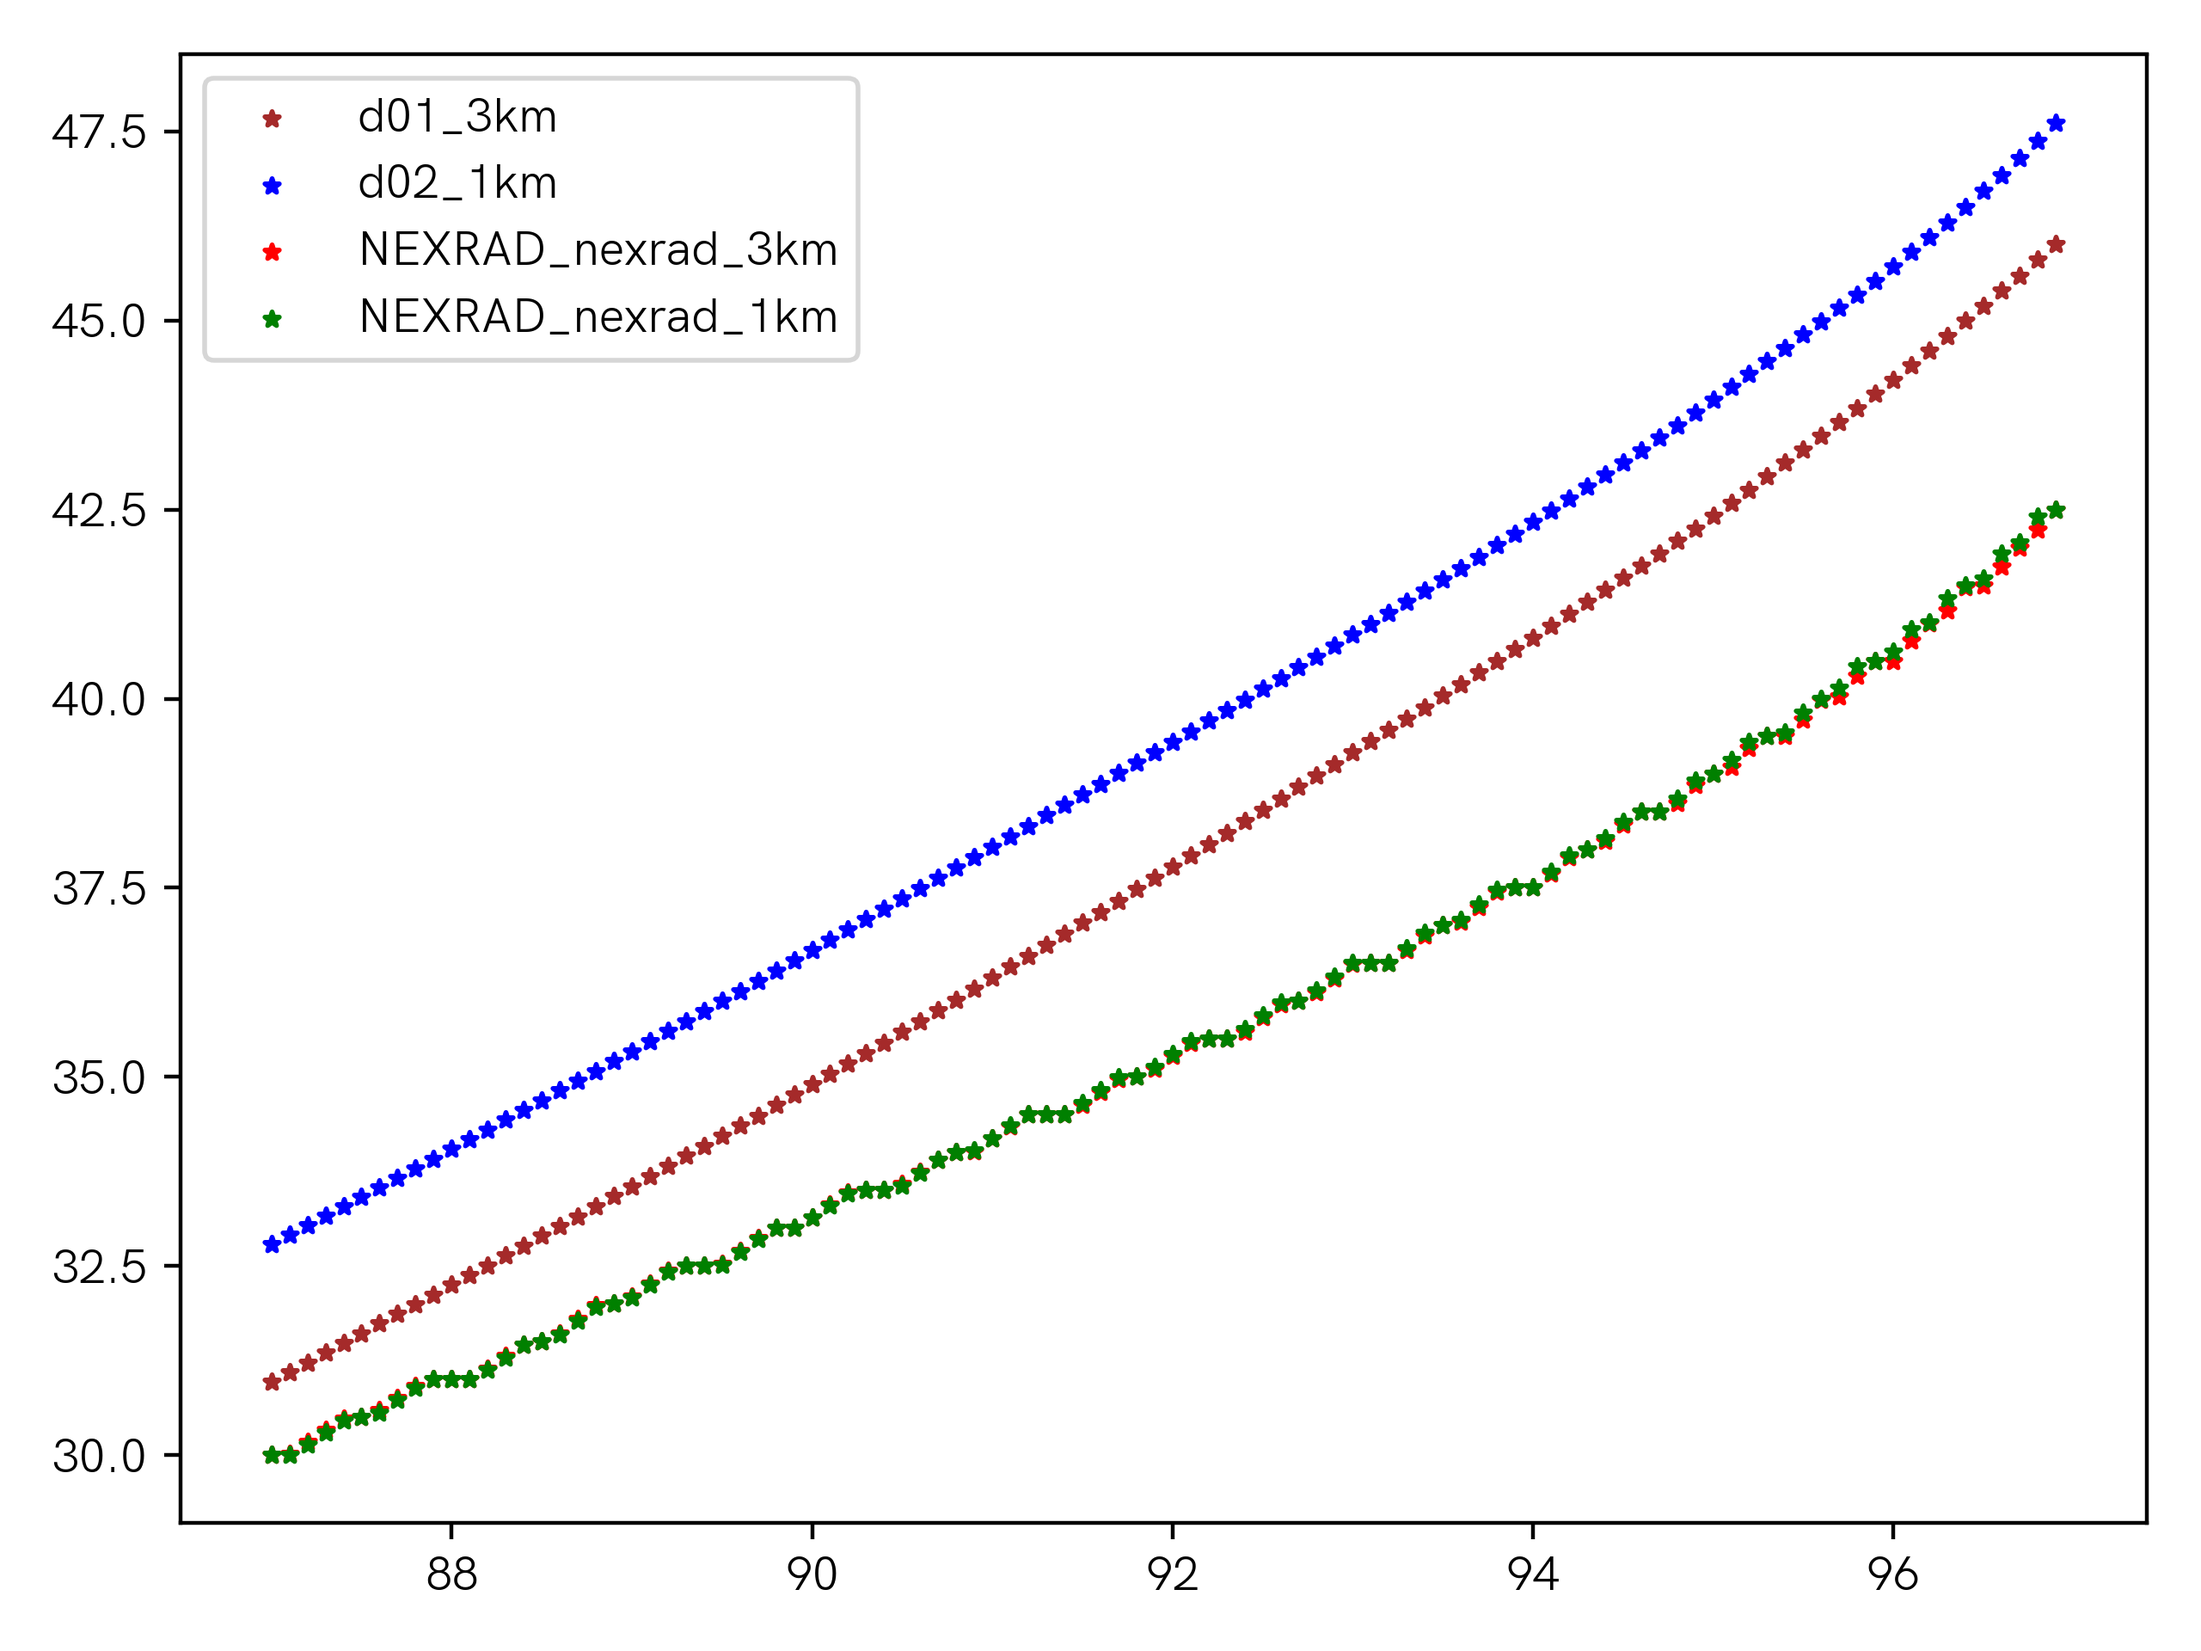
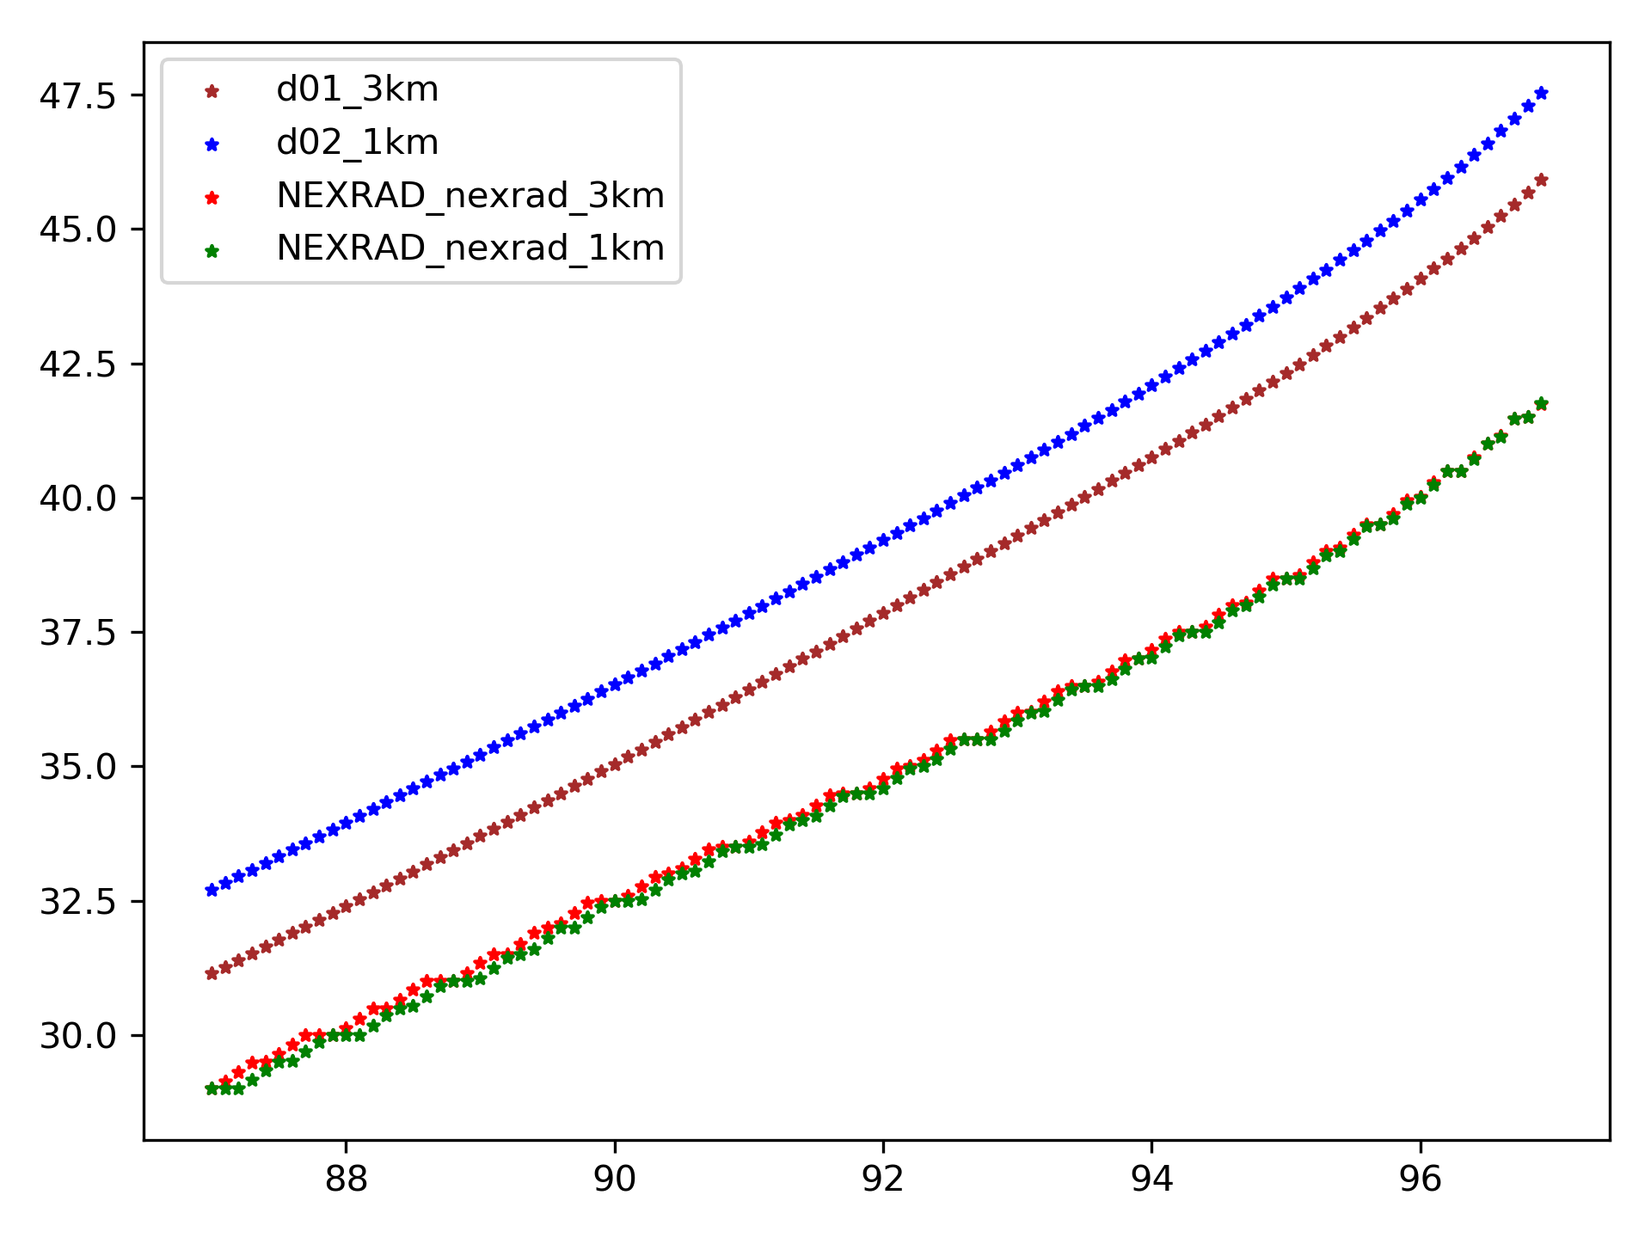
Test with all cases, 1 member

diff --git a/pycode/quantile_lookup.py b/pycode/quantile_lookup.py
@@ -15,7 +15,7 @@ import matplotlib.pyplot as plt
 # extractroot = '/Users/john.lawson/data/AprilFool'
 extractroot = '/work/john.lawson/VSE_reso/pp/AprilFool'
 # outdir = '/Users/john.lawson/VSE_dx/pyoutput'
-outdir = '/home/john.lawson/VSE_dx/pycode'
+outdir = '/home/john.lawson/VSE_dx/pyoutput'
 
 CASES = collections.OrderedDict()
 CASES[datetime.datetime(2016,3,31,0,0,0)] = [
@@ -47,12 +47,12 @@ CASES[datetime.datetime(2017,5,4,0,0,0)] = [
                         datetime.datetime(2017,5,5,2,0,0),
                         ]
 
-debug_cases = 'four'
+debug_cases = None
 if debug_cases == 'one':
     CASES = collections.OrderedDict()
     CASES[datetime.datetime(2016,3,31,0,0,0)] = [
                             datetime.datetime(2016,3,31,22,0,0),]
-else:
+elif debug_cases == 'four':
     CASES = collections.OrderedDict()
     CASES[datetime.datetime(2016,3,31,0,0,0)] = [
                             datetime.datetime(2016,3,31,21,0,0),
@@ -66,6 +66,8 @@ else:
     CASES[datetime.datetime(2017,5,4,0,0,0)] = [
                             datetime.datetime(2017,5,5,0,0,0),
                             ]
+else:
+    pass
 
 
 def get_extraction_fpaths(vrbl,fmt,validutc,caseutc,initutc=None,mem=None):
@@ -143,8 +145,8 @@ BIG_DATAS = dict()
 domains = ("d01_3km","d02_1km","NEXRAD_nexrad_3km","NEXRAD_nexrad_1km")
 fcst_domains = ("d01_3km","d02_1km")
 obs_domains = ("NEXRAD_nexrad_3km","NEXRAD_nexrad_1km")
-nmems = 2
-member_names = ['m{:02d}'.format(n) for n in range(1,nmems)]
+nmems = 18
+member_names = ['m{:02d}'.format(n) for n in range(1,nmems+1)]
 
 for domain in domains:
     BIG_DATAS[domain] = None
@@ -200,7 +202,7 @@ fpath = os.path.join(outdir,fname)
 for domain in domains:
     label = domain
     c = COLORS[domain]
-    for pc in N.arange(87,97,0.1):
+    for pc in N.arange(90,100,0.1):
         ax.scatter(pc,N.nanpercentile(BIG_DATAS[domain],pc),
             color=c,s=10,marker='*',label=label)
         label = None
